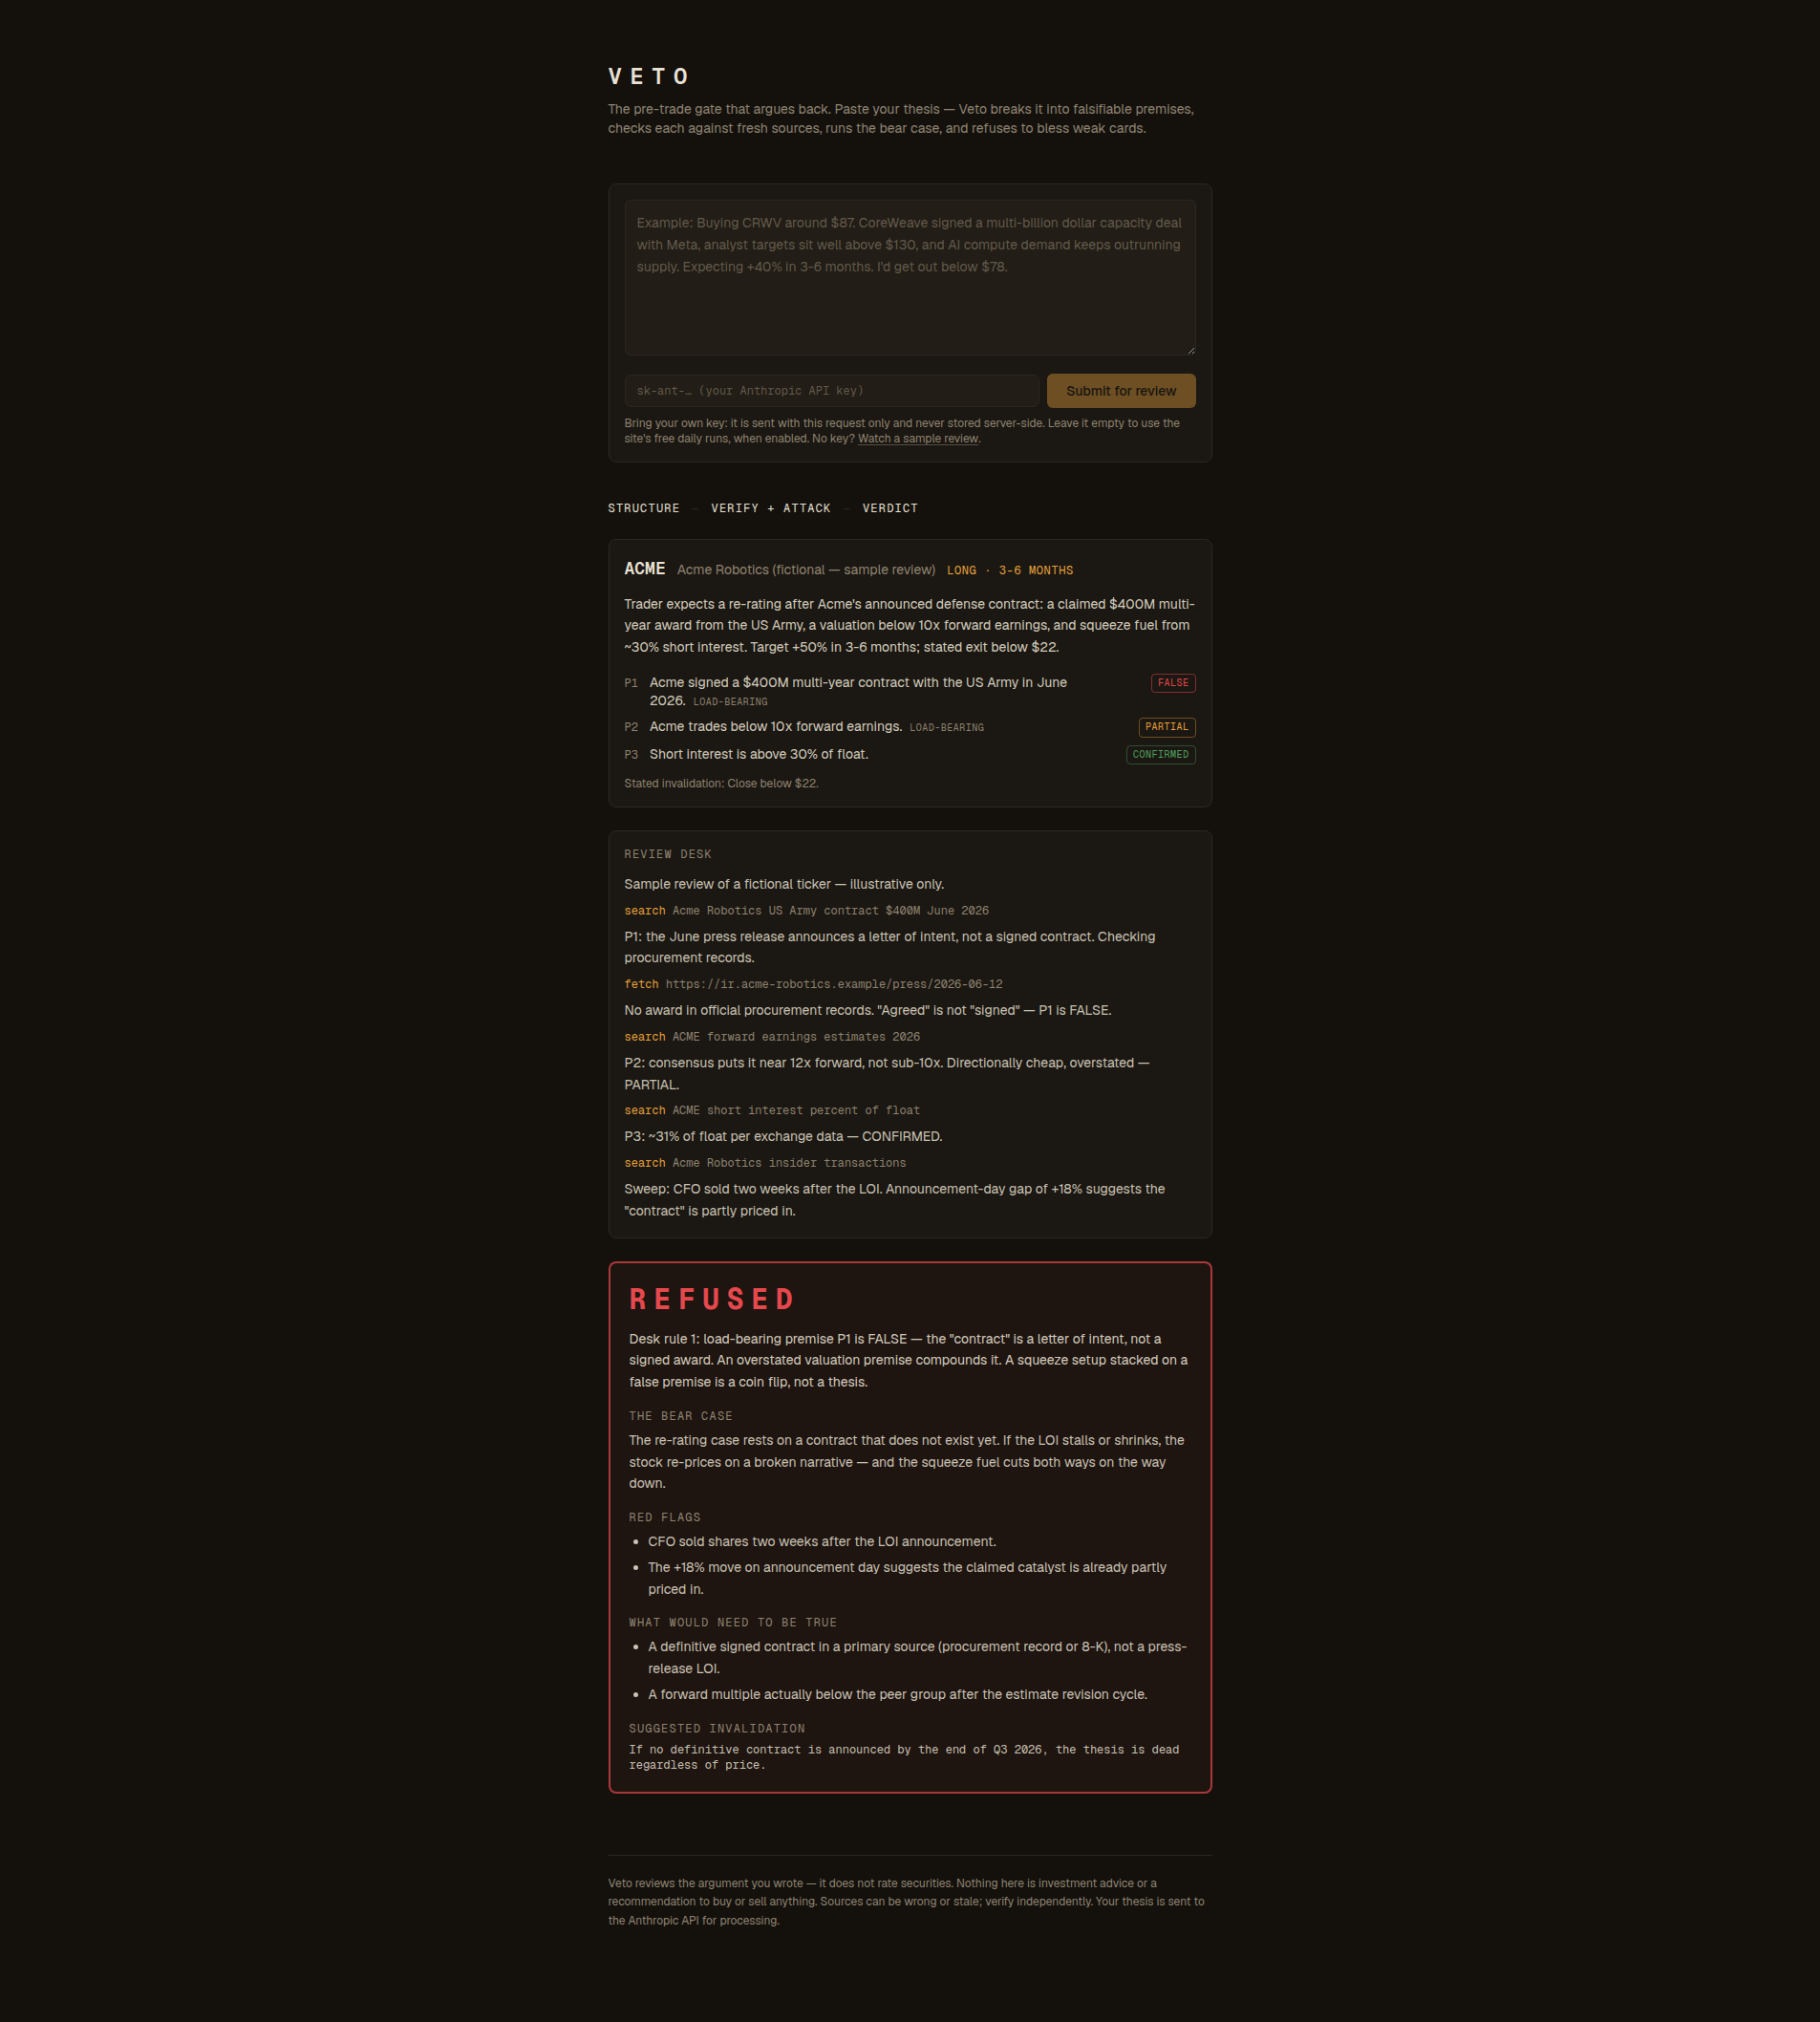
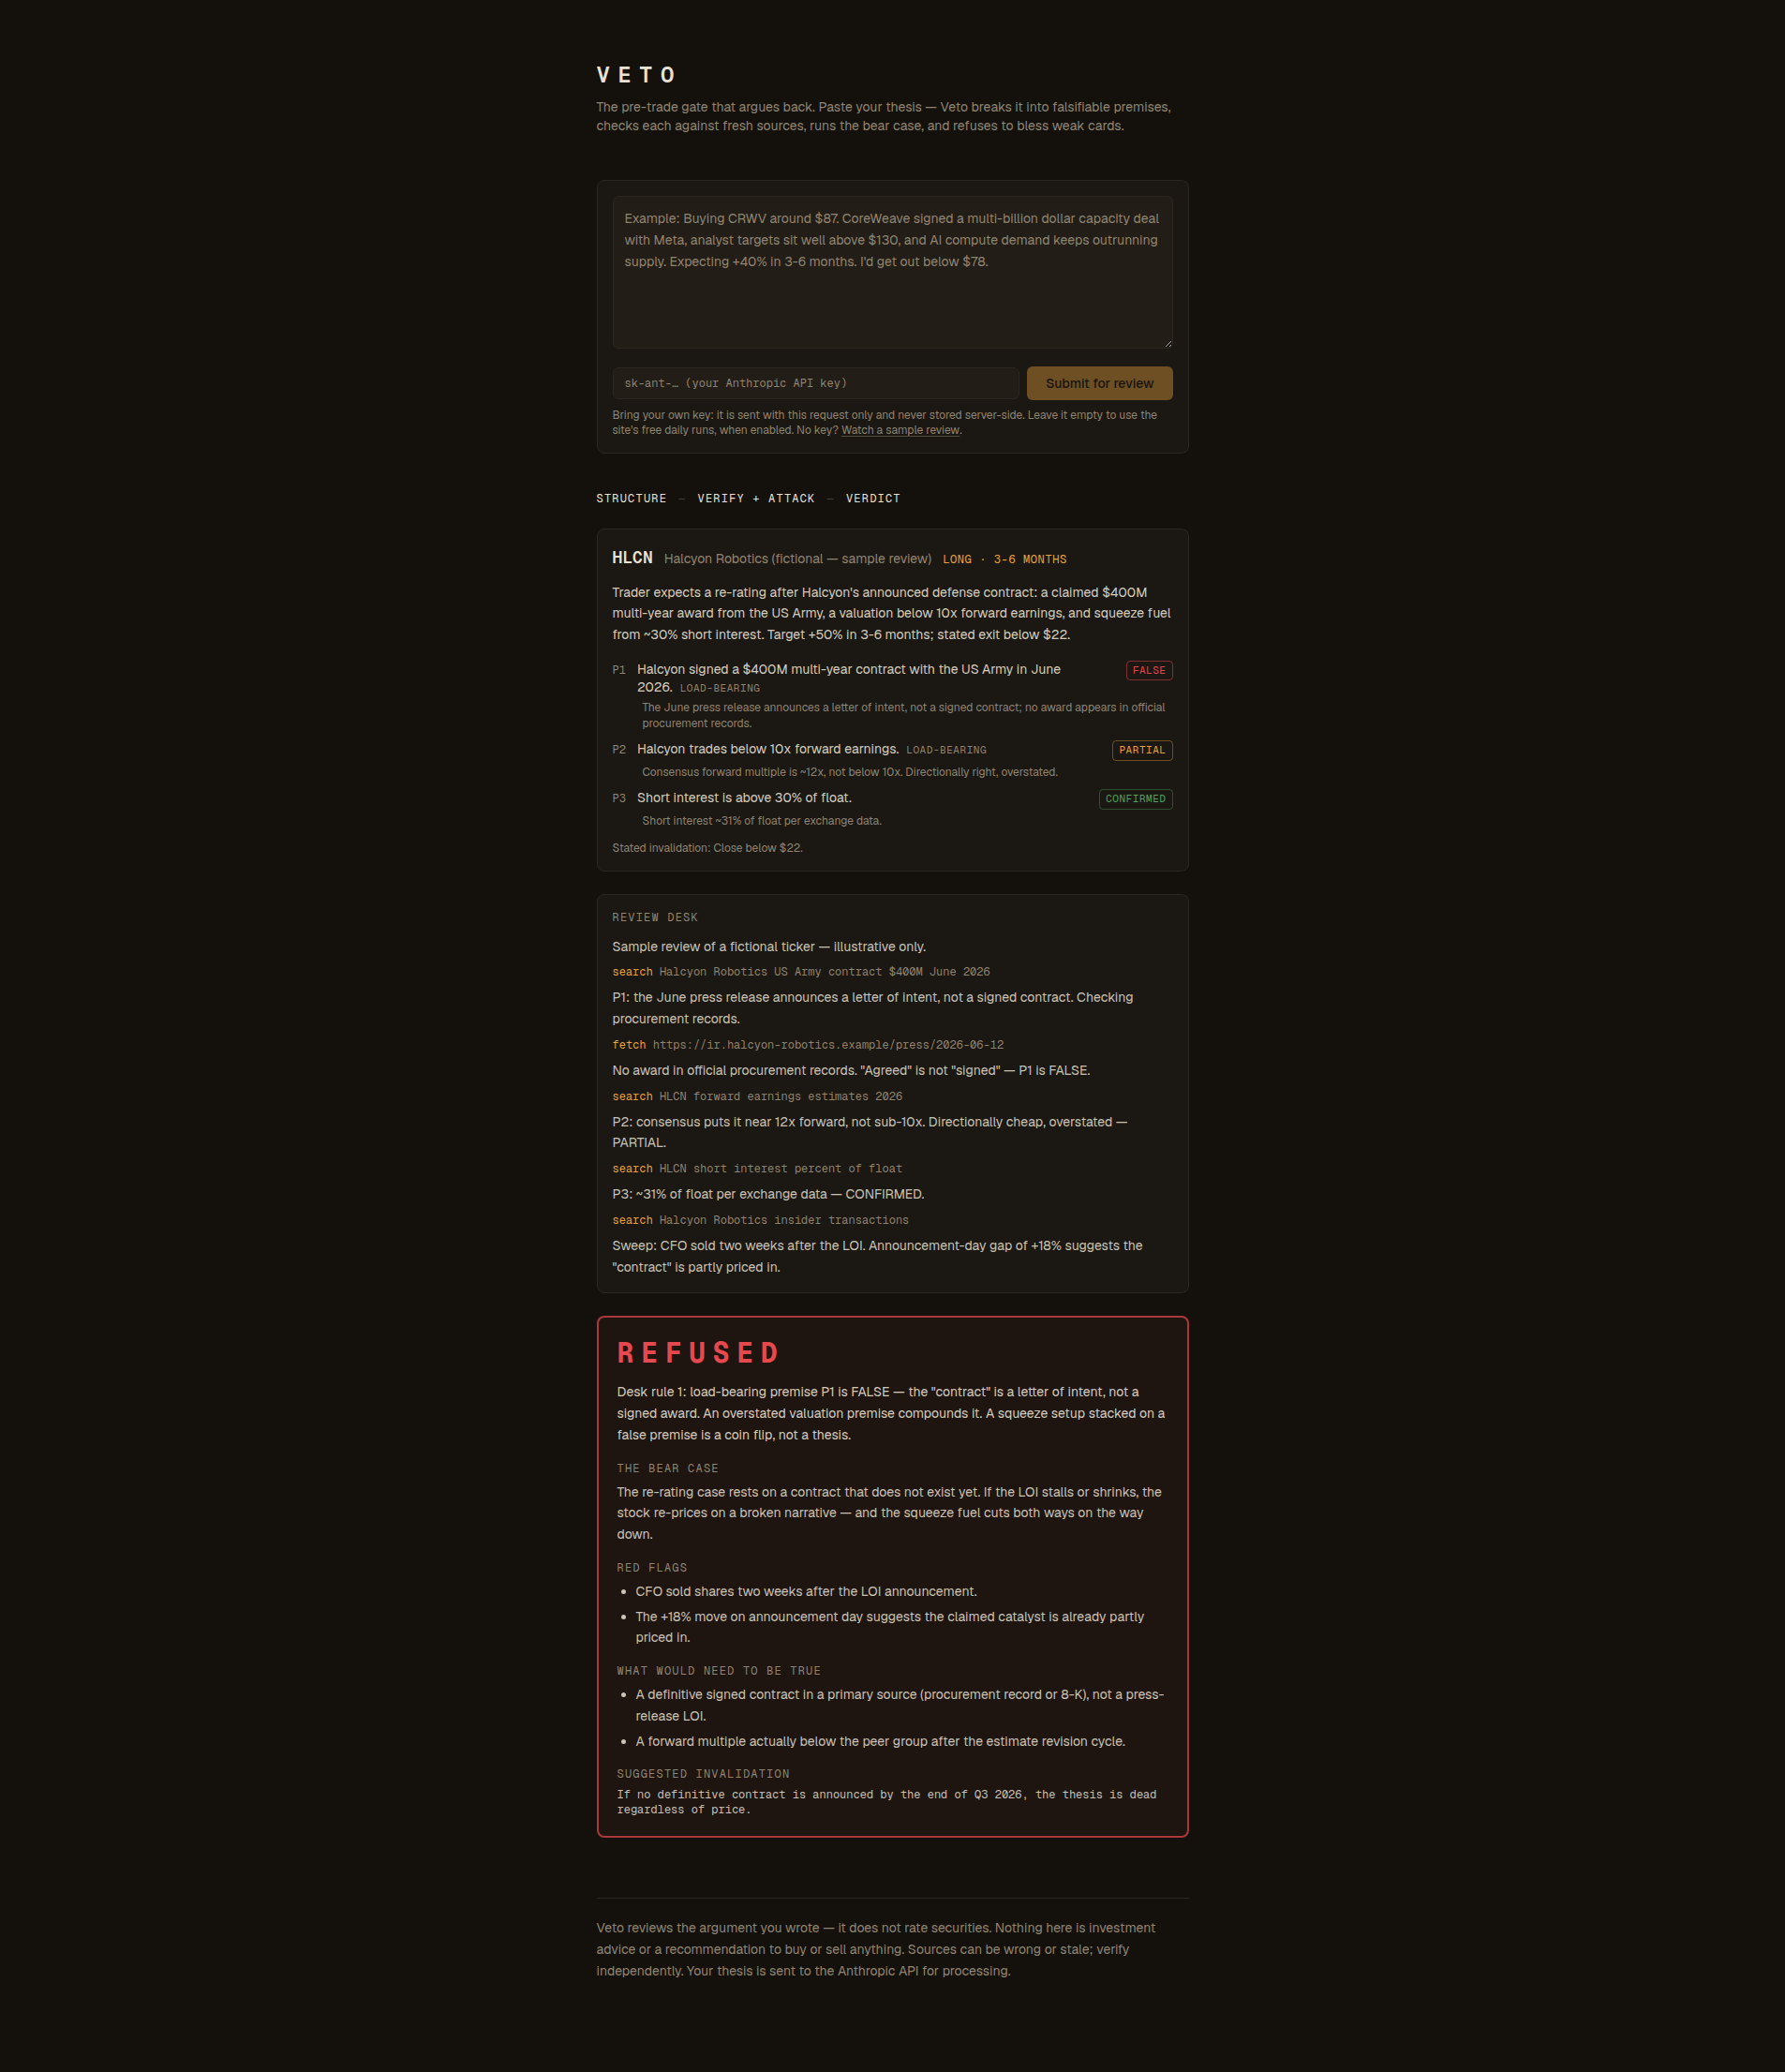
Apply design review: rename demo ticker, fix contrast, add polish
- ACME (banned placeholder name) renamed to Halcyon Robotics / HLCN
- Contrast fixes: no more opacity-dimmed muted text (WCAG failures at
  10px), stage separators visible, placeholders legible
- Interaction polish: CTA hover state, 200ms entry animation on card /
  desk / verdict, skeleton shimmer during structuring
- Labeled error state with retry button; per-premise evidence rendered
  under each claim once its verdict lands; 11px badge floor; footer at
  14px; --border token renamed to --edge
- Fresh README screenshot

diff --git a/app/page.tsx b/app/page.tsx
@@ -131,6 +131,8 @@ export default function Home() {
   const running = status === "structuring" || status === "verifying";
   const verdictFor = (id: string): PremiseState | null =>
     verdict?.premise_verdicts.find((p) => p.id === id)?.verdict ?? null;
+  const evidenceFor = (id: string): string | null =>
+    verdict?.premise_verdicts.find((p) => p.id === id)?.evidence ?? null;
 
   return (
     <div className="mx-auto w-full max-w-2xl px-5 pb-24 pt-16">
@@ -151,7 +153,7 @@ export default function Home() {
           onChange={(e) => setThesis(e.target.value)}
           placeholder={PLACEHOLDER}
           rows={6}
-          className="w-full resize-y rounded-md border border-edge bg-surface-2 p-3 text-sm leading-relaxed text-foreground placeholder:text-muted/60 focus:border-accent/60 focus:outline-none"
+          className="w-full resize-y rounded-md border border-edge bg-surface-2 p-3 text-sm leading-relaxed text-foreground placeholder:text-muted focus:border-accent/60 focus:outline-none"
         />
         <div className="mt-3 flex flex-col gap-2 sm:flex-row sm:items-center">
           <input
@@ -159,12 +161,12 @@ export default function Home() {
             value={apiKey}
             onChange={(e) => saveKey(e.target.value)}
             placeholder="sk-ant-… (your Anthropic API key)"
-            className="flex-1 rounded-md border border-edge bg-surface-2 px-3 py-2 font-mono text-xs text-foreground placeholder:text-muted/60 focus:border-accent/60 focus:outline-none"
+            className="flex-1 rounded-md border border-edge bg-surface-2 px-3 py-2 font-mono text-xs text-foreground placeholder:text-muted focus:border-accent/60 focus:outline-none"
           />
           <button
             onClick={() => run()}
             disabled={running || thesis.trim().length < 20}
-            className="rounded-md bg-accent px-5 py-2 text-sm font-medium text-background transition-opacity disabled:opacity-40"
+            className="rounded-md bg-accent px-5 py-2 text-sm font-medium text-background transition-colors duration-150 hover:bg-accent/90 disabled:opacity-40"
           >
             {running ? "Under review…" : "Submit for review"}
           </button>
@@ -176,7 +178,7 @@ export default function Home() {
           <button
             onClick={() => run(true)}
             disabled={running}
-            className="underline decoration-muted/50 underline-offset-2 hover:text-foreground disabled:opacity-40"
+            className="underline decoration-muted/50 underline-offset-2 transition-colors duration-150 hover:text-foreground disabled:opacity-40"
           >
             Watch a sample review
           </button>
@@ -189,14 +191,23 @@ export default function Home() {
           <section className="mt-10 space-y-6">
             <div className="flex items-center gap-3 font-mono text-xs uppercase tracking-widest text-muted">
               <StageDot active={status === "structuring"} done={card !== null} label="Structure" />
-              <span className="text-edge">—</span>
+              <span className="text-muted/40">—</span>
               <StageDot active={status === "verifying"} done={verdict !== null} label="Verify + attack" />
-              <span className="text-edge">—</span>
+              <span className="text-muted/40">—</span>
               <StageDot active={false} done={verdict !== null} label="Verdict" />
             </div>
 
+            {status === "structuring" && !card && (
+              <div className="animate-enter rounded-lg border border-edge bg-surface p-4">
+                <div className="skeleton h-5 w-40 rounded" />
+                <div className="skeleton mt-4 h-4 w-full rounded" />
+                <div className="skeleton mt-2 h-4 w-4/5 rounded" />
+                <div className="skeleton mt-2 h-4 w-3/5 rounded" />
+              </div>
+            )}
+
             {card && (
-              <div className="rounded-lg border border-edge bg-surface p-4">
+              <div className="animate-enter rounded-lg border border-edge bg-surface p-4">
                 <div className="flex flex-wrap items-baseline gap-x-3 gap-y-1">
                   <span className="font-mono text-lg font-semibold text-foreground">
                     {card.ticker}
@@ -209,27 +220,35 @@ export default function Home() {
                 <p className="mt-3 text-sm leading-relaxed text-foreground/90">
                   {card.thesis_summary}
                 </p>
-                <ul className="mt-4 space-y-2">
+                <ul className="mt-4 space-y-2.5">
                   {card.premises.map((p) => {
                     const state = verdictFor(p.id);
+                    const evidence = evidenceFor(p.id);
                     return (
-                      <li key={p.id} className="flex items-start gap-3 text-sm">
-                        <span className="mt-0.5 font-mono text-xs text-muted">{p.id}</span>
-                        <span className="flex-1 leading-snug text-foreground/90">
-                          {p.claim}
-                          {p.load_bearing && (
-                            <span className="ml-2 font-mono text-[10px] uppercase tracking-wider text-muted">
-                              load-bearing
-                            </span>
-                          )}
-                        </span>
-                        <span
-                          className={`shrink-0 rounded border px-1.5 py-0.5 font-mono text-[10px] uppercase tracking-wider ${
-                            state ? PREMISE_BADGE[state] : "border-edge text-muted/60"
-                          }`}
-                        >
-                          {state ?? "checking"}
-                        </span>
+                      <li key={p.id} className="text-sm">
+                        <div className="flex items-start gap-3">
+                          <span className="mt-0.5 font-mono text-xs text-muted">{p.id}</span>
+                          <span className="flex-1 leading-snug text-foreground/90">
+                            {p.claim}
+                            {p.load_bearing && (
+                              <span className="ml-2 font-mono text-[11px] uppercase tracking-wider text-muted">
+                                load-bearing
+                              </span>
+                            )}
+                          </span>
+                          <span
+                            className={`shrink-0 rounded border px-1.5 py-0.5 font-mono text-[11px] uppercase tracking-wider ${
+                              state ? PREMISE_BADGE[state] : "border-edge text-muted"
+                            }`}
+                          >
+                            {state ?? "checking"}
+                          </span>
+                        </div>
+                        {evidence && (
+                          <p className="mt-1 pl-8 text-xs leading-snug text-muted">
+                            {evidence}
+                          </p>
+                        )}
                       </li>
                     );
                   })}
@@ -243,7 +262,7 @@ export default function Home() {
             )}
 
             {feed.length > 0 && (
-              <div className="rounded-lg border border-edge bg-surface p-4">
+              <div className="animate-enter rounded-lg border border-edge bg-surface p-4">
                 <h2 className="font-mono text-xs uppercase tracking-widest text-muted">
                   Review desk
                 </h2>
@@ -263,7 +282,7 @@ export default function Home() {
                     ),
                   )}
                   {status === "verifying" && (
-                    <p className="font-mono text-xs text-muted/60">working…</p>
+                    <p className="font-mono text-xs text-muted">working…</p>
                   )}
                 </div>
               </div>
@@ -271,7 +290,7 @@ export default function Home() {
 
             {verdict && (
               <div
-                className={`rounded-lg border-2 p-5 ${
+                className={`animate-enter rounded-lg border-2 p-5 ${
                   verdict.verdict === "REFUSED"
                     ? "border-refused/70 bg-refused/5"
                     : "border-blessed/70 bg-blessed/5"
@@ -319,15 +338,25 @@ export default function Home() {
             )}
 
             {error && (
-              <div className="rounded-lg border border-refused/50 bg-refused/5 p-4 text-sm text-foreground/90">
-                {error}
+              <div className="animate-enter rounded-lg border border-refused/50 bg-refused/5 p-4">
+                <h2 className="font-mono text-xs uppercase tracking-widest text-refused">
+                  Review failed
+                </h2>
+                <p className="mt-1.5 text-sm leading-relaxed text-foreground/90">{error}</p>
+                <button
+                  onClick={() => run()}
+                  disabled={thesis.trim().length < 20}
+                  className="mt-3 rounded-md bg-accent px-4 py-1.5 text-sm font-medium text-background transition-colors duration-150 hover:bg-accent/90 disabled:opacity-40"
+                >
+                  Try again
+                </button>
               </div>
             )}
           </section>
         )}
       </div>
 
-      <footer className="mt-16 border-t border-edge pt-5 text-xs leading-relaxed text-muted">
+      <footer className="mt-16 border-t border-edge pt-5 text-sm leading-relaxed text-muted">
         <p>
           Veto reviews the argument you wrote — it does not rate securities.
           Nothing here is investment advice or a recommendation to buy or sell
@@ -341,7 +370,7 @@ export default function Home() {
 
 function StageDot({ active, done, label }: { active: boolean; done: boolean; label: string }) {
   return (
-    <span className={done ? "text-foreground" : active ? "text-accent" : "text-muted/50"}>
+    <span className={done ? "text-foreground" : active ? "text-accent" : "text-muted"}>
       {label}
     </span>
   );

diff --git a/app/globals.css b/app/globals.css
@@ -4,7 +4,7 @@
   --background: #14110d;
   --surface: #1b1712;
   --surface-2: #221d16;
-  --border: #2c2620;
+  --edge: #2c2620;
   --foreground: #e9e2d4;
   --muted: #8f8471;
   --accent: #e8a33d;
@@ -16,7 +16,7 @@
   --color-background: var(--background);
   --color-surface: var(--surface);
   --color-surface-2: var(--surface-2);
-  --color-edge: var(--border);
+  --color-edge: var(--edge);
   --color-foreground: var(--foreground);
   --color-muted: var(--muted);
   --color-accent: var(--accent);
@@ -35,4 +35,39 @@ body {
 ::selection {
   background: var(--accent);
   color: var(--background);
+}
+
+@keyframes enter {
+  from {
+    opacity: 0;
+    transform: translateY(4px);
+  }
+  to {
+    opacity: 1;
+    transform: none;
+  }
+}
+
+.animate-enter {
+  animation: enter 200ms ease-out;
+}
+
+@keyframes shimmer {
+  from {
+    background-position: 200% 0;
+  }
+  to {
+    background-position: -200% 0;
+  }
+}
+
+.skeleton {
+  background: linear-gradient(
+    90deg,
+    var(--surface-2) 25%,
+    var(--edge) 50%,
+    var(--surface-2) 75%
+  );
+  background-size: 200% 100%;
+  animation: shimmer 1.6s linear infinite;
 }

diff --git a/lib/demo.ts b/lib/demo.ts
@@ -9,21 +9,21 @@ export const DEMO_EVENTS: EngineEvent[] = [
   {
     t: "card",
     v: {
-      ticker: "ACME",
-      company: "Acme Robotics (fictional — sample review)",
+      ticker: "HLCN",
+      company: "Halcyon Robotics (fictional — sample review)",
       direction: "long",
       horizon: "3-6 months",
       thesis_summary:
-        "Trader expects a re-rating after Acme's announced defense contract: a claimed $400M multi-year award from the US Army, a valuation below 10x forward earnings, and squeeze fuel from ~30% short interest. Target +50% in 3-6 months; stated exit below $22.",
+        "Trader expects a re-rating after Halcyon's announced defense contract: a claimed $400M multi-year award from the US Army, a valuation below 10x forward earnings, and squeeze fuel from ~30% short interest. Target +50% in 3-6 months; stated exit below $22.",
       premises: [
         {
           id: "P1",
-          claim: "Acme signed a $400M multi-year contract with the US Army in June 2026.",
+          claim: "Halcyon signed a $400M multi-year contract with the US Army in June 2026.",
           load_bearing: true,
         },
         {
           id: "P2",
-          claim: "Acme trades below 10x forward earnings.",
+          claim: "Halcyon trades below 10x forward earnings.",
           load_bearing: true,
         },
         {
@@ -37,24 +37,24 @@ export const DEMO_EVENTS: EngineEvent[] = [
   },
   { t: "stage", v: "verifying" },
   { t: "text", v: "Sample review of a fictional ticker — illustrative only.\n" },
-  { t: "search", v: "Acme Robotics US Army contract $400M June 2026" },
+  { t: "search", v: "Halcyon Robotics US Army contract $400M June 2026" },
   {
     t: "text",
     v: "P1: the June press release announces a letter of intent, not a signed contract. Checking procurement records.\n",
   },
-  { t: "fetch", v: "https://ir.acme-robotics.example/press/2026-06-12" },
+  { t: "fetch", v: "https://ir.halcyon-robotics.example/press/2026-06-12" },
   {
     t: "text",
     v: "No award in official procurement records. \"Agreed\" is not \"signed\" — P1 is FALSE.\n",
   },
-  { t: "search", v: "ACME forward earnings estimates 2026" },
+  { t: "search", v: "HLCN forward earnings estimates 2026" },
   {
     t: "text",
     v: "P2: consensus puts it near 12x forward, not sub-10x. Directionally cheap, overstated — PARTIAL.\n",
   },
-  { t: "search", v: "ACME short interest percent of float" },
+  { t: "search", v: "HLCN short interest percent of float" },
   { t: "text", v: "P3: ~31% of float per exchange data — CONFIRMED.\n" },
-  { t: "search", v: "Acme Robotics insider transactions" },
+  { t: "search", v: "Halcyon Robotics insider transactions" },
   {
     t: "text",
     v: "Sweep: CFO sold two weeks after the LOI. Announcement-day gap of +18% suggests the \"contract\" is partly priced in.\n",